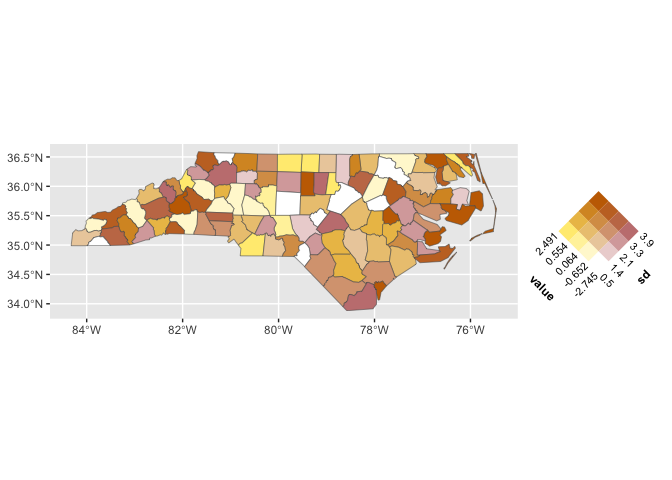
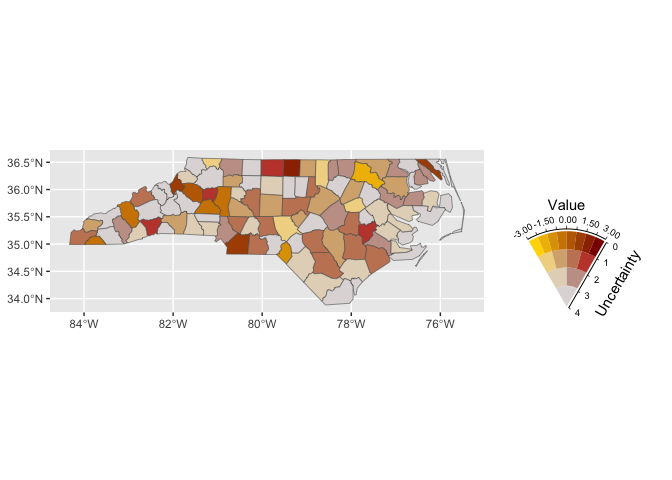
Fix argument name conflicts and update README

diff --git a/README.md b/README.md
@@ -16,11 +16,11 @@ coverage](https://codecov.io/gh/maggiexma/ggincerta/graph/badge.svg)](https://ap
 
 ggincerta is an extension of ggplot2 that introduces new layers and
 scales for visualizing spatial uncertainty, and can be extended to more
-general bivariate schemes. It reimplements the visualization methods for
-four types of maps introduced in the Vizumap package in a way that fully
-aligns with the grammar of graphics and integrates seamlessly with the
-ggplot2 ecosystem, making the visualization process more flexible and
-convenient.
+general bivariate schemes. It reimplements the visualisation methods for
+three types of maps introduced in the Vizumap package in a way that
+fully aligns with the grammar of graphics and integrates seamlessly with
+the ggplot2 ecosystem. It makes the visualisation process more flexible
+and convenient, while also adding additional visualisation options.
 
 ## Installation
 
@@ -38,8 +38,8 @@ pak::pak("maggiexma/ggincerta")
 The example dataset included in ggincerta is an sf object adapted from
 the `nc` shapefile in the sf package. It contains two simulated columns
 value and sd, which are mainly used in example maps to demonstrate how
-to visualize visualize regional uncertainty alongside average estimates.
-For more details about the description and design of four map types, see
+to visualise regional uncertainty alongside average estimates. For more
+details about the description and design of three map types, see
 <https://doi.org/10.1002/sta4.150>.
 
 ``` r
@@ -47,71 +47,103 @@ library(ggincerta)
 #> Loading required package: ggplot2
 ```
 
-The ggincerta package defines two layer functions `geom_sf_pixel()` and
-`geom_sf_glyph()` for creating pixel and glyph maps, respectively. They
-can be used in the same way as other `geom_*()` functions in ggplot2,
-like `geom_point()`.
-
-``` r
-ggplot(nc) + geom_sf_pixel(mapping = aes(v1 = value, v2 = sd))
-```
-
-<img src="man/figures/README-unnamed-chunk-3-1.png" width="100%" />
-
-Two variables `v1` and `v2`, are required in the mapping for a glyph
-map. They are visually transformed into a pixel representation, where
-pixel values are sampled from a specified probability distribution
-parameterized by `v1` and `v2` for each region and then mapped to the
-colour aesthetic. A greater variation in pixel colors within a region
-indicates higher uncertainty.
-
-``` r
-ggplot(nc) + geom_sf_glyph(mapping = aes(v1 = value, v2 = sd))
-```
-
-<img src="man/figures/README-unnamed-chunk-4-1.png" width="100%" />
-
-Glyph maps are essentially centroid maps that require two guides: `v1`
-is conventionally mapped to the colour aesthetic and shown with a
-continuous colourbar, while `v2` is mapped to the rotation angle of
-glyph.
-
-The designs of both the bivariate map and the exceedance probability map
-are primarily reflected in their colour mapping schemes. The scale
-function `scale_*_bivariate()` discretizes each variable into `n_breaks`
-bins, maps these bins to corresponding colour ramps, and generates a
-colour grid in which each cell represents the joint bin from the two
-variables.
+The ggincerta package defines a new scale function,
+`scale_*_bivariate()`, for creating bivariate colour mapping schemes
+that work with `geom_sf()`. In the data space, two variables are
+discretised into `n_breaks` bins, forming crossed combinations that are
+mapped to a colour grid. Each cell in the colour grid is generated
+through a chosen mixture of visual properties, such as hue, lightness,
+saturation, or opacity.
 
 ``` r
 ggplot(nc) + geom_sf(aes(fill = duo(value, sd)))
 ```
 
-<img src="man/figures/README-unnamed-chunk-5-1.png" width="100%" /> This
-scale can be applied to data types other than sf objects.
+<img src="man/figures/README-unnamed-chunk-3-1.png" alt="" width="100%" />
+
+The figure above shows the default visual effect of
+`scale_*_bivariate()`, where colours are generated by additive mixing in
+RGB space between two hue-based lightness gradient ramps. Another option
+is to use the provided `bivar_fade_palette()` to specify colours for the
+value dimension, while progressively suppressing another perceptual
+dimension along the uncertainty axis.
 
 ``` r
-ggplot(anscombe, aes(x1, x2)) +
-  geom_point(aes(color = duo(y1, y2)), size = 6)
+ggplot(nc) + geom_sf(aes(fill = duo(value, sd))) +
+  scale_fill_bivariate(palette_fun = bivar_fade_palette,
+                       colours = c("#F6E8C3", "orange", "red"),
+                       palette_params = list(fade = "desaturate"))
 ```
 
-<img src="man/figures/README-unnamed-chunk-6-1.png" width="100%" /> Like
-`scale_*_bivariate()`, `scale_*_exceed()` in ggincerta can be applied to
-data types beyond sf. Note that it currently computes exceedance
-probabilities under a normal distribution only, taking the first
-variable as mean and the second as standard deviation with a default
-threshold of 1.64. To change the threshold, call `scale_*_exceed()`
-explicitly and pass the desired arguments.
+<img src="man/figures/README-unnamed-chunk-4-1.png" alt="" width="100%" />
+
+Value-Suppressing Uncertainty Palettes proposed by Correll et al. (2018)
+can be implemented by `scale_*_vsup()` in ggincerta. The main idea is to
+suppress colour variation in regions with higher uncertainty, thereby
+directing visual attention towards more reliable value differences.
 
 ``` r
-ggplot(nc) + geom_sf(aes(fill = duo_exceed(value, sd)))
+ggplot(nc) +
+  geom_sf(aes(fill = duo(value, sd))) +
+  scale_fill_vsup(
+    breaks = list(
+      seq(-3, 3, length.out = 9),
+      seq(0, 4, length.out = 5)
+    ),
+    limits = list(
+      c(-3, 3),
+      c(0, 4)
+    )
+  ) + theme(legend.text = element_text(size = 7))
 ```
 
-<img src="man/figures/README-unnamed-chunk-7-1.png" width="100%" />
+<img src="man/figures/README-unnamed-chunk-5-1.png" alt="" width="100%" />
+
+ggincerta defines two layer functions `geom_sf_pixel()` and
+`geom_sf_glyph()` for creating pixel and glyph maps, respectively. They
+can be used in the same way as other `geom_*()` functions in ggplot2,
+like `geom_point()`.
 
 ``` r
-ggplot(anscombe, aes(x1, x2)) +
-  geom_point(aes(color = duo_exceed(y1, y2)), size = 6)
+ggplot(nc) + geom_sf_pixel(mapping = aes(fill = duo_pixel(value, sd)))
+#> geom_sf_pixel_new(): input data has a geographic CRS and sf is using s2; pixelation may be slow. Consider transforming to a projected planar CRS first.
 ```
 
-<img src="man/figures/README-unnamed-chunk-8-1.png" width="100%" />
+<img src="man/figures/README-unnamed-chunk-6-1.png" alt="" width="100%" />
+
+Each unit region in a pixel map is tessellated into pixels. Pixel values
+are sampled from a specified probability distribution parameterised by
+`v1` and `v2` for each region, and are then mapped to the colour
+aesthetic. Greater variation in pixel colours within a region indicates
+higher uncertainty.
+
+Glyph maps are essentially centroid maps. ggincerta provides glyphs with
+different shapes and corresponding aesthetics for simultaneously
+visualising value and uncertainty. One option uses regular shapes,
+including circles, squares, triangles, and hexagons, which can work
+together with `scale_colour_bivariate()`.
+
+``` r
+ggplot(nc) + geom_sf_glyph(mapping = aes(colour = duo(value, sd)))
+#> Warning: st_point_on_surface assumes attributes are constant over geometries
+#> Warning in st_point_on_surface.sfc(st_geometry(x)): st_point_on_surface may not
+#> give correct results for longitude/latitude data
+```
+
+<img src="man/figures/README-unnamed-chunk-7-1.png" alt="" width="100%" />
+
+Another type of glyph is drop-shaped, where uncertainty is represented
+by the rotation angle through the newly introduced `angle` aesthetic.
+
+``` r
+ggplot(nc) +
+    geom_sf_glyph(
+      aes(colour = value, angle = sd),
+      shape = "drop"
+    )
+#> Warning: st_point_on_surface assumes attributes are constant over geometries
+#> Warning in st_point_on_surface.sfc(st_geometry(x)): st_point_on_surface may not
+#> give correct results for longitude/latitude data
+```
+
+<img src="man/figures/README-unnamed-chunk-8-1.png" alt="" width="100%" />
